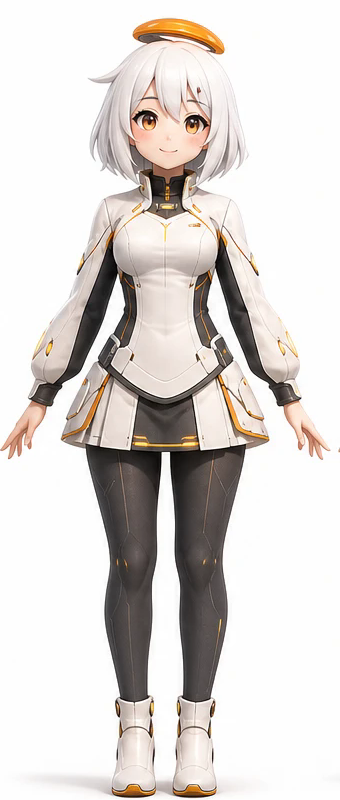
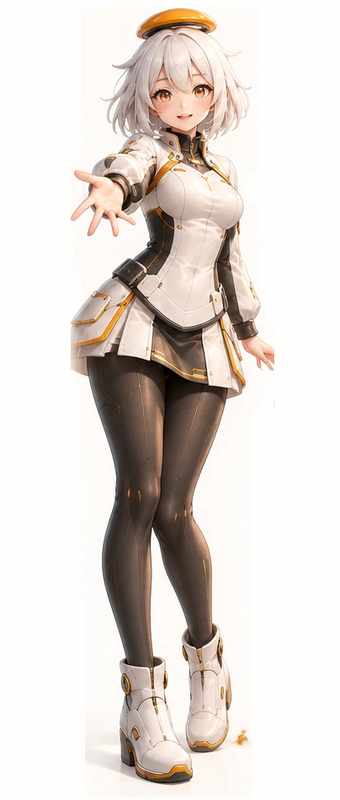
阿桥 gets her new character sheet
Both crops are re-cut from the new reference sheet, which is now committed at
docs/assets/aqiao-character-sheet.webp so the next re-crop has a source:
mascot.png (360x360) from the large portrait, mascot-full.png (340x800) from
the full-length pose, padded on the sheet's own white. Same sizes and paths,
so every avatar slot and the voice section pick them up unchanged.

diff --git a/docs/13-name-and-voice.md b/docs/13-name-and-voice.md
@@ -107,7 +107,12 @@ halo. The halo is what does the work at small sizes: it is the one element of th
 silhouette still legible at 24px, and 24px is the size that actually matters,
 because the avatar sits beside every answer and not only in the header.
 
-Two crops of one reference sheet, wired in `web/static/avatar.js`:
+Two crops of one reference sheet, wired in `web/static/avatar.js`. The sheet is
+committed at [`docs/assets/aqiao-character-sheet.webp`](assets/aqiao-character-sheet.webp)
+(1536×1024): the head comes from the large portrait at its left, the figure from
+the full-length pose beside it, padded on the sheet's own white to 340×800 — the
+reaching hand's fingertips stop where the sheet's turnaround panel begins.
+Re-crop from this file; never swap in a drawing that is not on it.
 
 | File | Intrinsic | Where it is drawn |
 |---|---|---|
